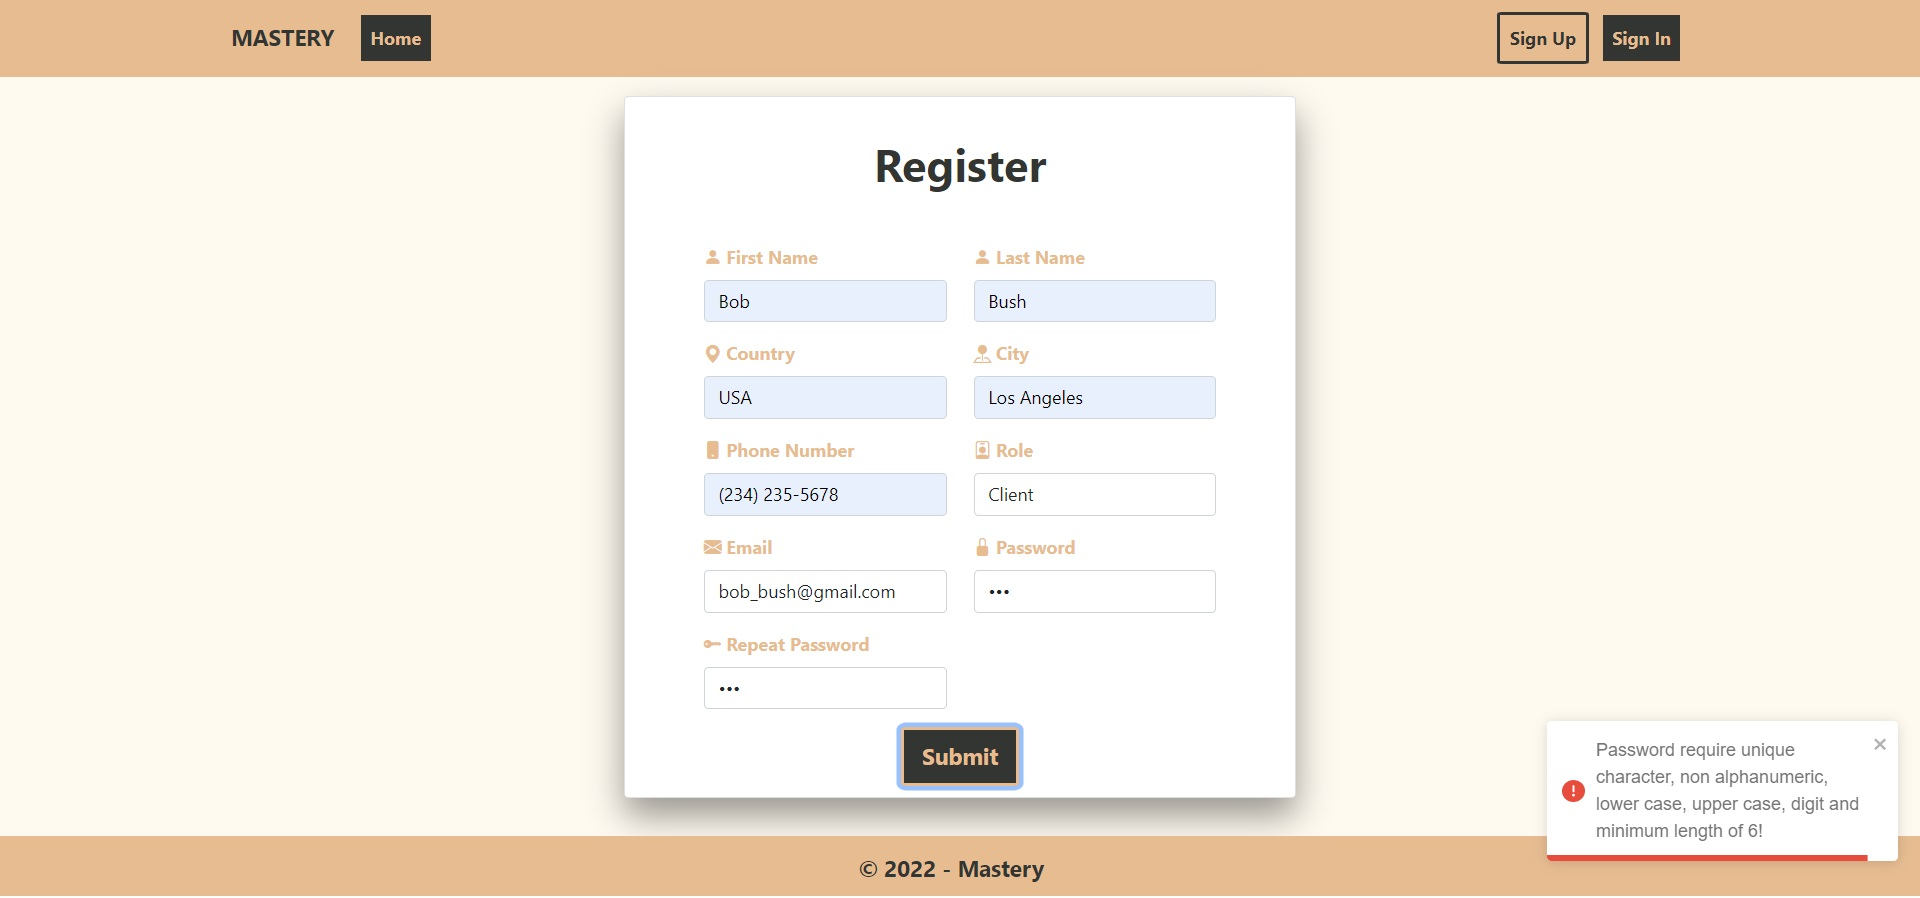
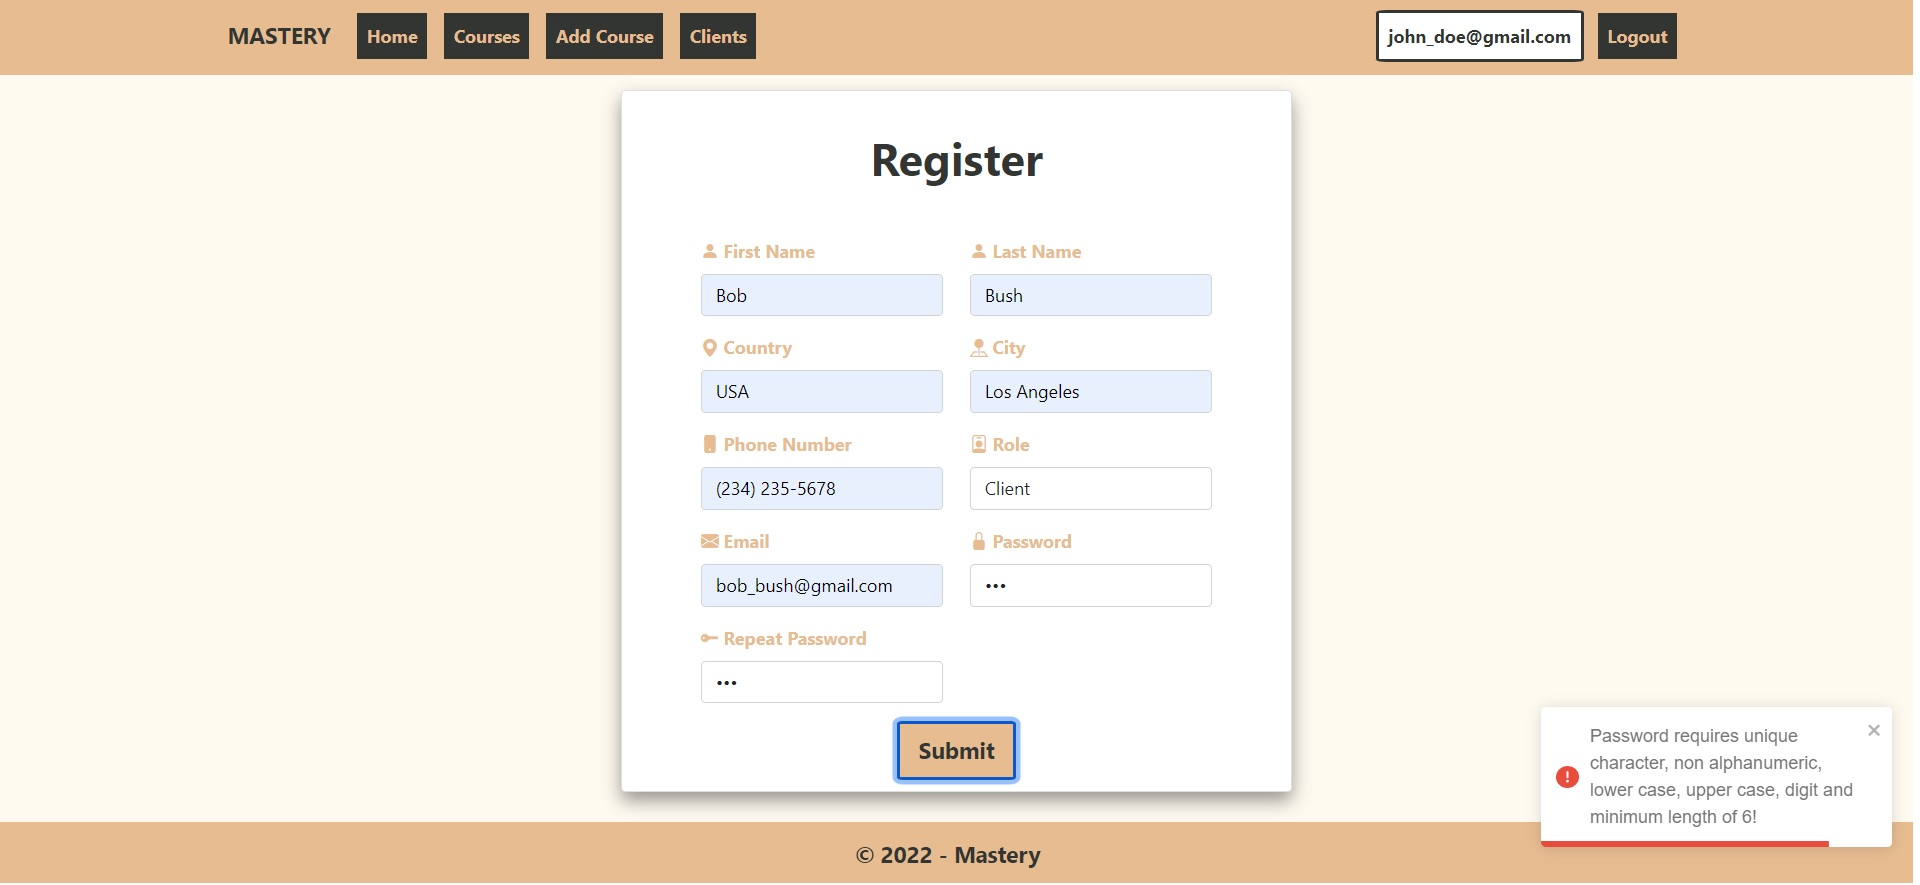
Fix courses mentor name bug

diff --git a/mastery-client/mastery-react-app/src/components/Lists/Courses.js b/mastery-client/mastery-react-app/src/components/Lists/Courses.js
@@ -4,36 +4,33 @@ import { STATE } from "../../state";
 import { useAtom } from "jotai";
 import { useUpdateAtom } from "jotai/utils";
 
-
 export const Courses = () => {
   const [courses, setCourses] = useAtom(STATE.COURSES);
   const setTotalCoursesMembers = useUpdateAtom(STATE.COURSES_MEMBERS);
-  const [mentors, setMentors] = useAtom(STATE.MENTORS);
 
   useEffect(() => {
     setCourses();
     setTotalCoursesMembers();
-    setMentors();
   }, []);
 
   return (
     <>
       {courses.length ? (
         <div className="container-margin-top">
-            {courses.map((course, index) => (
-              <Course
-                name={course.name}
-                category={course.category}
-                price={course.price}
-                description={course.description}
-                startingDate={course.startingDate}
-                mentorId={course.mentorId}
-                courseId={course.courseId}
-                mentor={mentors.filter(mentor => mentor.mentorId === course.mentorId)[0]}
-                key={index}
-              />
-            ))}
-          </div>
+          {courses.map((course, index) => (
+            <Course
+              name={course.name}
+              category={course.category}
+              price={course.price}
+              description={course.description}
+              startingDate={course.startingDate}
+              mentorId={course.mentorId}
+              courseId={course.courseId}
+              mentorName={course.mentorName}
+              key={index}
+            />
+          ))}
+        </div>
       ) : (
         <div className="card">
           <div className="card-container">

diff --git a/mastery-client/mastery-react-app/src/components/shared/Register.js b/mastery-client/mastery-react-app/src/components/shared/Register.js
@@ -7,7 +7,7 @@ export const Register = () => {
   const [redirect, setRedirect] = useState(false);
   const invalidOperationNotification = () => {
     toast.error(
-      `Password require unique character, non alphanumeric, lower case, upper case, digit and minimum length of 6!`,
+      `Password requires unique character, non alphanumeric, lower case, upper case, digit and minimum length of 6!`,
       {
         position: toast.POSITION.BOTTOM_RIGHT,
       }
@@ -55,7 +55,7 @@ export const Register = () => {
   ) : (
     <>
       <ToastContainer />
-      <div className="card">
+      <div className="card register-card-margin">
         <div className="container">
           <section>
             <div className="row d-flex justify-content-center align-items-center">
@@ -64,7 +64,7 @@ export const Register = () => {
                   <div>
                     <div className="row justify-content-center">
                       <div>
-                        <p className="text-center h1 fw-bold mb-5 mx-1 mx-md-4 mt-4 txt-main-color form-txt-color">
+                        <p className="text-center h1 fw-bold mb-2 mx-1 mx-md-4 mt-4 txt-main-color form-txt-color">
                           Register
                         </p>
 

diff --git a/mastery-client/mastery-react-app/src/css/App.css b/mastery-client/mastery-react-app/src/css/App.css
@@ -40,7 +40,15 @@
   background: linear-gradient(rgba(0, 0, 0, 0.5), rgba(0, 0, 0, 0.5)),
     url("/src/img/welcome-page.jpg");
   background-size: cover;
-  height: 84.1vh;
+  height: calc(100vh - 7em);
+}
+
+.footer-height {
+  height: 3em !important;
+}
+
+.header-height {
+  height: 4em !important;
 }
 
 .card {
@@ -53,6 +61,11 @@
 
 .card:hover {
   box-shadow: 0 16px 32px 0 rgba(0, 0, 0, 0.4);
+}
+
+.register-card-margin {
+  margin-top: 2em;
+  margin-bottom: 2em;
 }
 
 .card-container {
@@ -110,14 +123,6 @@
   font-weight: bold;
 }
 
-.footer-height {
-  height: 3.6em !important;
-}
-
-.header-height {
-  height: 4.35em !important;
-}
-
 .font-weight-bold {
   font-weight: bold !important;
 }
@@ -170,6 +175,10 @@
   width: 50%;
   margin-top: 4em;
   background-color: white;
+}
+
+.week-card-width {
+  width: 60% !important;
 }
 
 .courses-card:hover {

diff --git a/mastery-client/mastery-react-app/src/components/Course.js b/mastery-client/mastery-react-app/src/components/Course.js
@@ -13,7 +13,7 @@ export const Course = ({
   startingDate,
   mentorId,
   courseId,
-  mentor,
+  mentorName,
 }) => {
   const user = useAtomValue(userSetter);
   const setCourses = useUpdateAtom(STATE.COURSES);
@@ -68,7 +68,7 @@ export const Course = ({
               <p className="card-text h5 font-weight-bold mt-3">
                 <span className="bi bi-person-badge margin-right-icon">
                   {" "}
-                  {mentor.firstName} {mentor.lastName}
+                  {mentorName}
                 </span>
                 <i className="bi bi-people-fill"></i>{" "}
                 {totalCoursesMembers.map(

diff --git a/mastery-client/mastery-react-app/src/state.js b/mastery-client/mastery-react-app/src/state.js
@@ -43,14 +43,6 @@ export const STATE = {
       set(STATE.CLIENTS_LIST, clients);
     }
   ),
-  MENTORS_LIST: atom([]),
-  MENTORS: atom(
-    (get) => get(STATE.MENTORS_LIST),
-    async (get, set) => {
-      const mentors = await dataManager.getMentors();
-      set(STATE.MENTORS_LIST, mentors);
-    }
-  ),
 };
 
 export const ATTENDED_COURSES = atom([]);

diff --git a/mastery-client/mastery-react-app/src/components/Week.js b/mastery-client/mastery-react-app/src/components/Week.js
@@ -25,7 +25,7 @@ export const Week = ({
 
   return (
     <>
-      <div className="courses-card mb-3">
+      <div className="courses-card week-card-width mb-3">
         <div className="row no-gutters">
           <div className="d-inline-flex">
             <iframe

diff --git a/Mastery/Services/CourseService.cs b/Mastery/Services/CourseService.cs
@@ -30,9 +30,29 @@ namespace Mastery.Services
             return _db.Courses.Any(e => e.CourseId == id); 
         }
 
-        public async Task<IEnumerable<CourseDTO>> GetAllAsync()
+        public async Task<IEnumerable<CourseDetailsDTO>> GetAllAsync()
         {
-            return _mapper.Map<IEnumerable<CourseDTO>>(await _db.Courses.ToListAsync());
+            List<CourseDetailsDTO> coursesDetailsDTOs = new ();
+            var courses = await _db.Courses.ToListAsync();
+            foreach (var course in courses)
+            {
+                var mentor = _db.Users.Where(u => u.Id == course.MentorId).First();
+                string mentorName = $"{mentor.FirstName} {mentor.LastName}";
+
+                CourseDetailsDTO courseDetailsDTO = new ();
+                courseDetailsDTO.CourseId = course.CourseId;
+                courseDetailsDTO.Name = course.Name;
+                courseDetailsDTO.Category = course.Category;
+                courseDetailsDTO.Price = course.Price;
+                courseDetailsDTO.Description = course.Description;
+                courseDetailsDTO.StartingDate = course.StartingDate;
+                courseDetailsDTO.MentorId = course.MentorId;
+                courseDetailsDTO.MentorName = mentorName;
+
+                coursesDetailsDTOs.Add(courseDetailsDTO);
+            }
+
+            return coursesDetailsDTOs;
         }
 
         public async Task<CourseDTO> GetAsync(int id)

diff --git a/Mastery/DTOs/CourseDetailsDTO.cs b/Mastery/DTOs/CourseDetailsDTO.cs
@@ -1,0 +1,14 @@
+namespace Mastery.DTOs
+{
+    public class CourseDetailsDTO
+    {
+        public int CourseId { get; set; }
+        public string Name { get; set; } = null!;
+        public string Category { get; set; } = null!;
+        public decimal Price { get; set; }
+        public string Description { get; set; } = null!;
+        public DateTime StartingDate { get; set; }
+        public string? MentorId { get; set; }
+        public string? MentorName { get; set; }
+    }
+}

diff --git a/Mastery/Services/ClientService.cs b/Mastery/Services/ClientService.cs
@@ -54,7 +54,8 @@ namespace Mastery.Services
         public List<object> GetTotalCoursesClients()
         {
             List<object> totalCoursesClientsList = new List<object>() { };
-            foreach (var course in _db.Courses)
+            var courses = _db.Courses;
+            foreach (var course in courses)
             {
                 var totalCourseClients = _db.CourseClients
                     .Count(cp => cp.CourseId == course.CourseId);

diff --git a/Mastery/Controllers/AccountController.cs b/Mastery/Controllers/AccountController.cs
@@ -122,7 +122,7 @@ namespace Mastery.Controllers
                         City = user.City,
                         PhoneNumber = user.PhoneNumber,
                         PhoneNumberConfirmed = user.PhoneNumberConfirmed,
-                        Role = (await _userManager.GetRolesAsync(user)).FirstOrDefault()
+                        Role = (await _userManager.GetRolesAsync(user)).First()
                     });
                 }
             }

diff --git a/Mastery/Services/Interfaces/ICourseService.cs b/Mastery/Services/Interfaces/ICourseService.cs
@@ -2,8 +2,13 @@
 
 namespace Mastery.Services.Interfaces
 {
-    public interface ICourseService : IService<CourseDTO>
+    public interface ICourseService 
     {
+        Task AddAsync(CourseDTO item);
+        Task RemoveAsync(int id);
+        Task UpdateAsync(int id, CourseDTO item);
+        Task<CourseDTO> GetAsync(int id);
+        Task<IEnumerable<CourseDetailsDTO>> GetAllAsync();
         bool CourseExists(int id);
     }
 }

diff --git a/Mastery/Controllers/CoursesController.cs b/Mastery/Controllers/CoursesController.cs
@@ -27,7 +27,7 @@ namespace Mastery.Controllers
         // GET: courses
         [Authorize(Roles = "Mentor,Client")]
         [HttpGet]
-        public async Task<ActionResult<IEnumerable<CourseDTO>>> GetCourses()
+        public async Task<ActionResult<IEnumerable<CourseDetailsDTO>>> GetCourses()
         {
             var courses = await _courseService.GetAllAsync();
             _logger.LogInformation("All courses retrieved");
